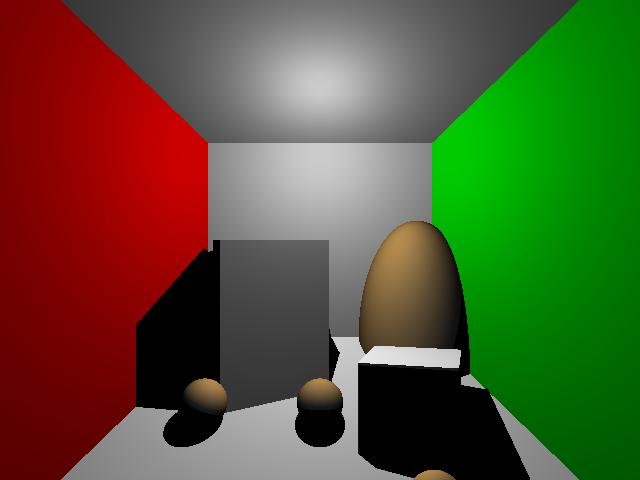
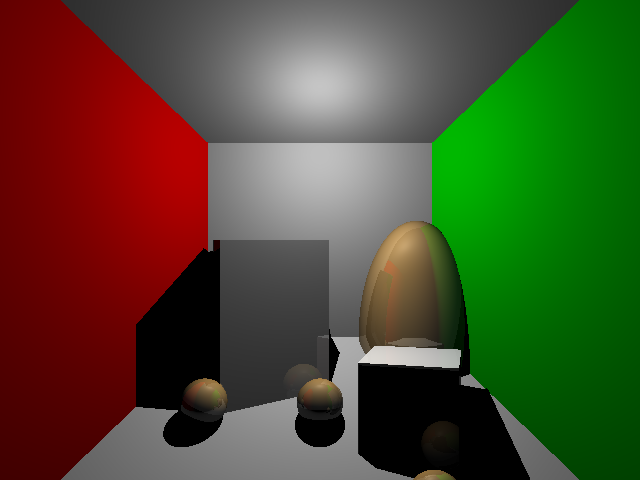
Scene 6 passing tests

diff --git a/HW1/CPU_PathTracer/src/raytracer.cpp b/HW1/CPU_PathTracer/src/raytracer.cpp
@@ -454,7 +454,7 @@ int main() {
 	Scene* scene = new Scene();
 
 
-	std::ifstream file("C:/dev/CSE168x/HW1/CPU_PathTracer/Release/scene5.test");
+	std::ifstream file("C:/dev/CSE168x/HW1/CPU_PathTracer/Release/scene6.test");
 	std::string line;
 
 	while (std::getline(file, line))
